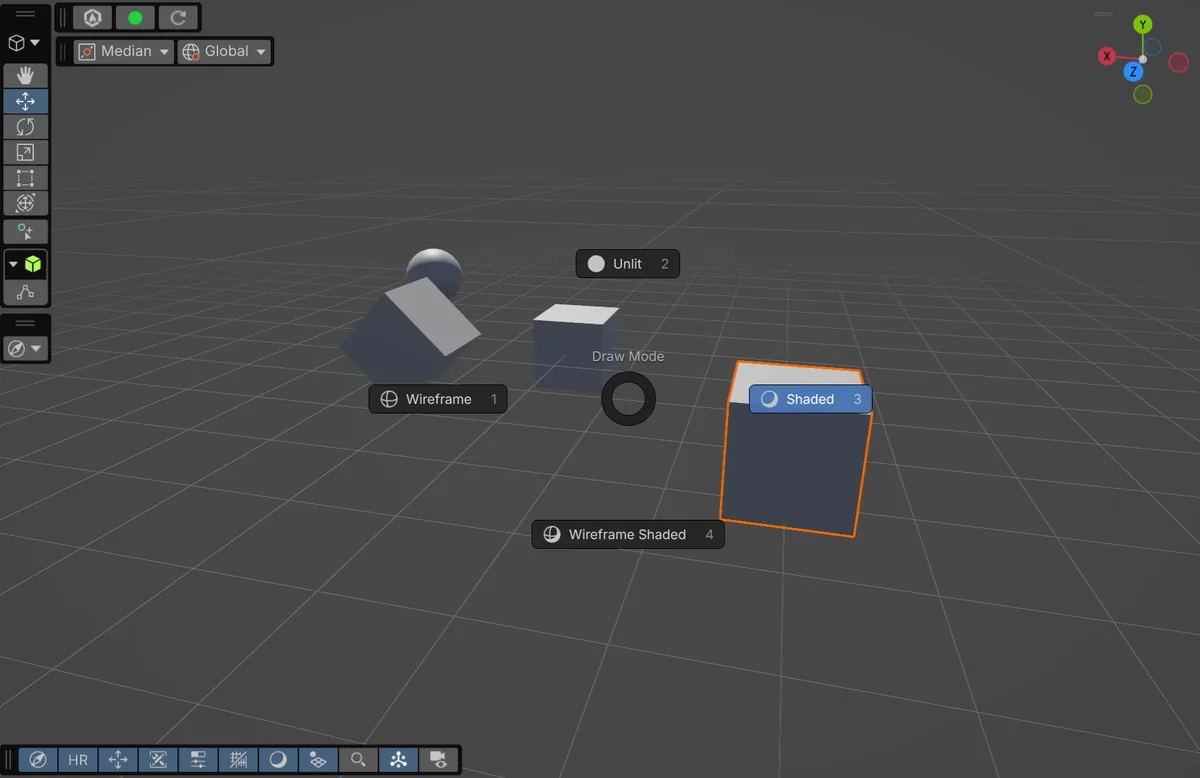
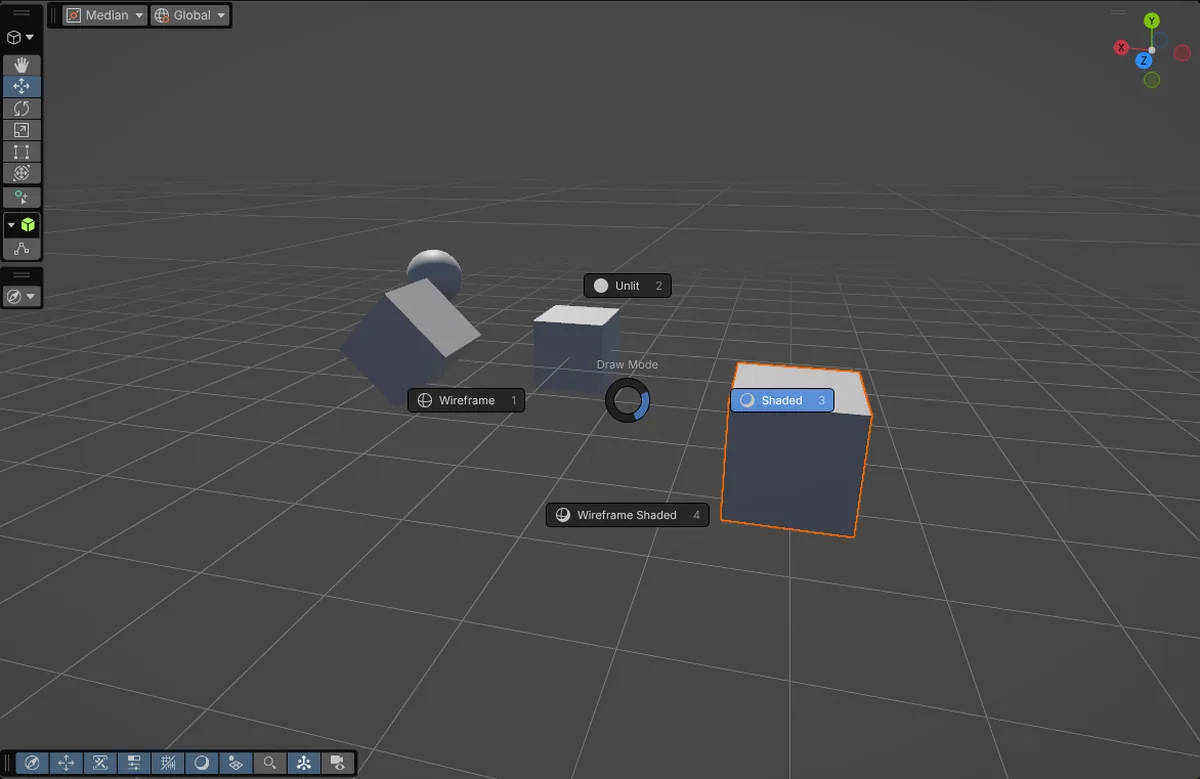
Remove the Hot Reload toolbox from the Scene view
The top toolbox and the HR button in the bottom toolbar are gone; the Pivot Point and handle rotation
toolbar moves up to the top. The mobile poster is recaptured to match.

diff --git a/src/scene/ui/Chrome.tsx b/src/scene/ui/Chrome.tsx
@@ -2,7 +2,6 @@
 // is interactive (tool buttons, pivot point, handle orientation); the rest is a picture of Unity.
 import { useEffect, useRef, useState, type CSSProperties } from 'react';
 import tools from '../../assets/scene/overlay-tools.png';
-import top from '../../assets/scene/overlay-top.png';
 import bottom from '../../assets/scene/overlay-bottom.png';
 import dropdown from '../../assets/scene/icons/d_dropdown.png';
 import handleCenter from '../../assets/scene/icons/d_ToolHandleCenter.png';
@@ -115,12 +114,11 @@ export function Chrome({ host, pivot }: { host: SceneHost; pivot: PivotPointApi 
   return (
     <div className={styles.chrome} onPointerDown={(e) => e.stopPropagation()}>
       <img className={styles.pic} src={tools} alt="" style={pos(0, 0, 76, 530)} draggable={false} />
-      <img className={styles.pic} src={top} alt="" style={pos(79, 3, 213, 45)} draggable={false} />
       <img
         className={styles.picBottom}
         src={bottom}
         alt=""
-        style={{ width: pt(670), height: pt(53) }}
+        style={{ width: pt(612), height: pt(53) }}
         draggable={false}
       />
 
@@ -143,7 +141,7 @@ export function Chrome({ host, pivot }: { host: SceneHost; pivot: PivotPointApi 
         </button>
       ))}
 
-      <div className={styles.toolbar2} style={{ left: pt(80), top: pt(52), height: pt(45) }}>
+      <div className={styles.toolbar2} style={{ left: pt(80), top: pt(3), height: pt(45) }}>
         <i className={styles.grip} />
         <Dropdown
           icon={Tools.pivotMode === PivotMode.Pivot ? handlePivot : handleCenter}
